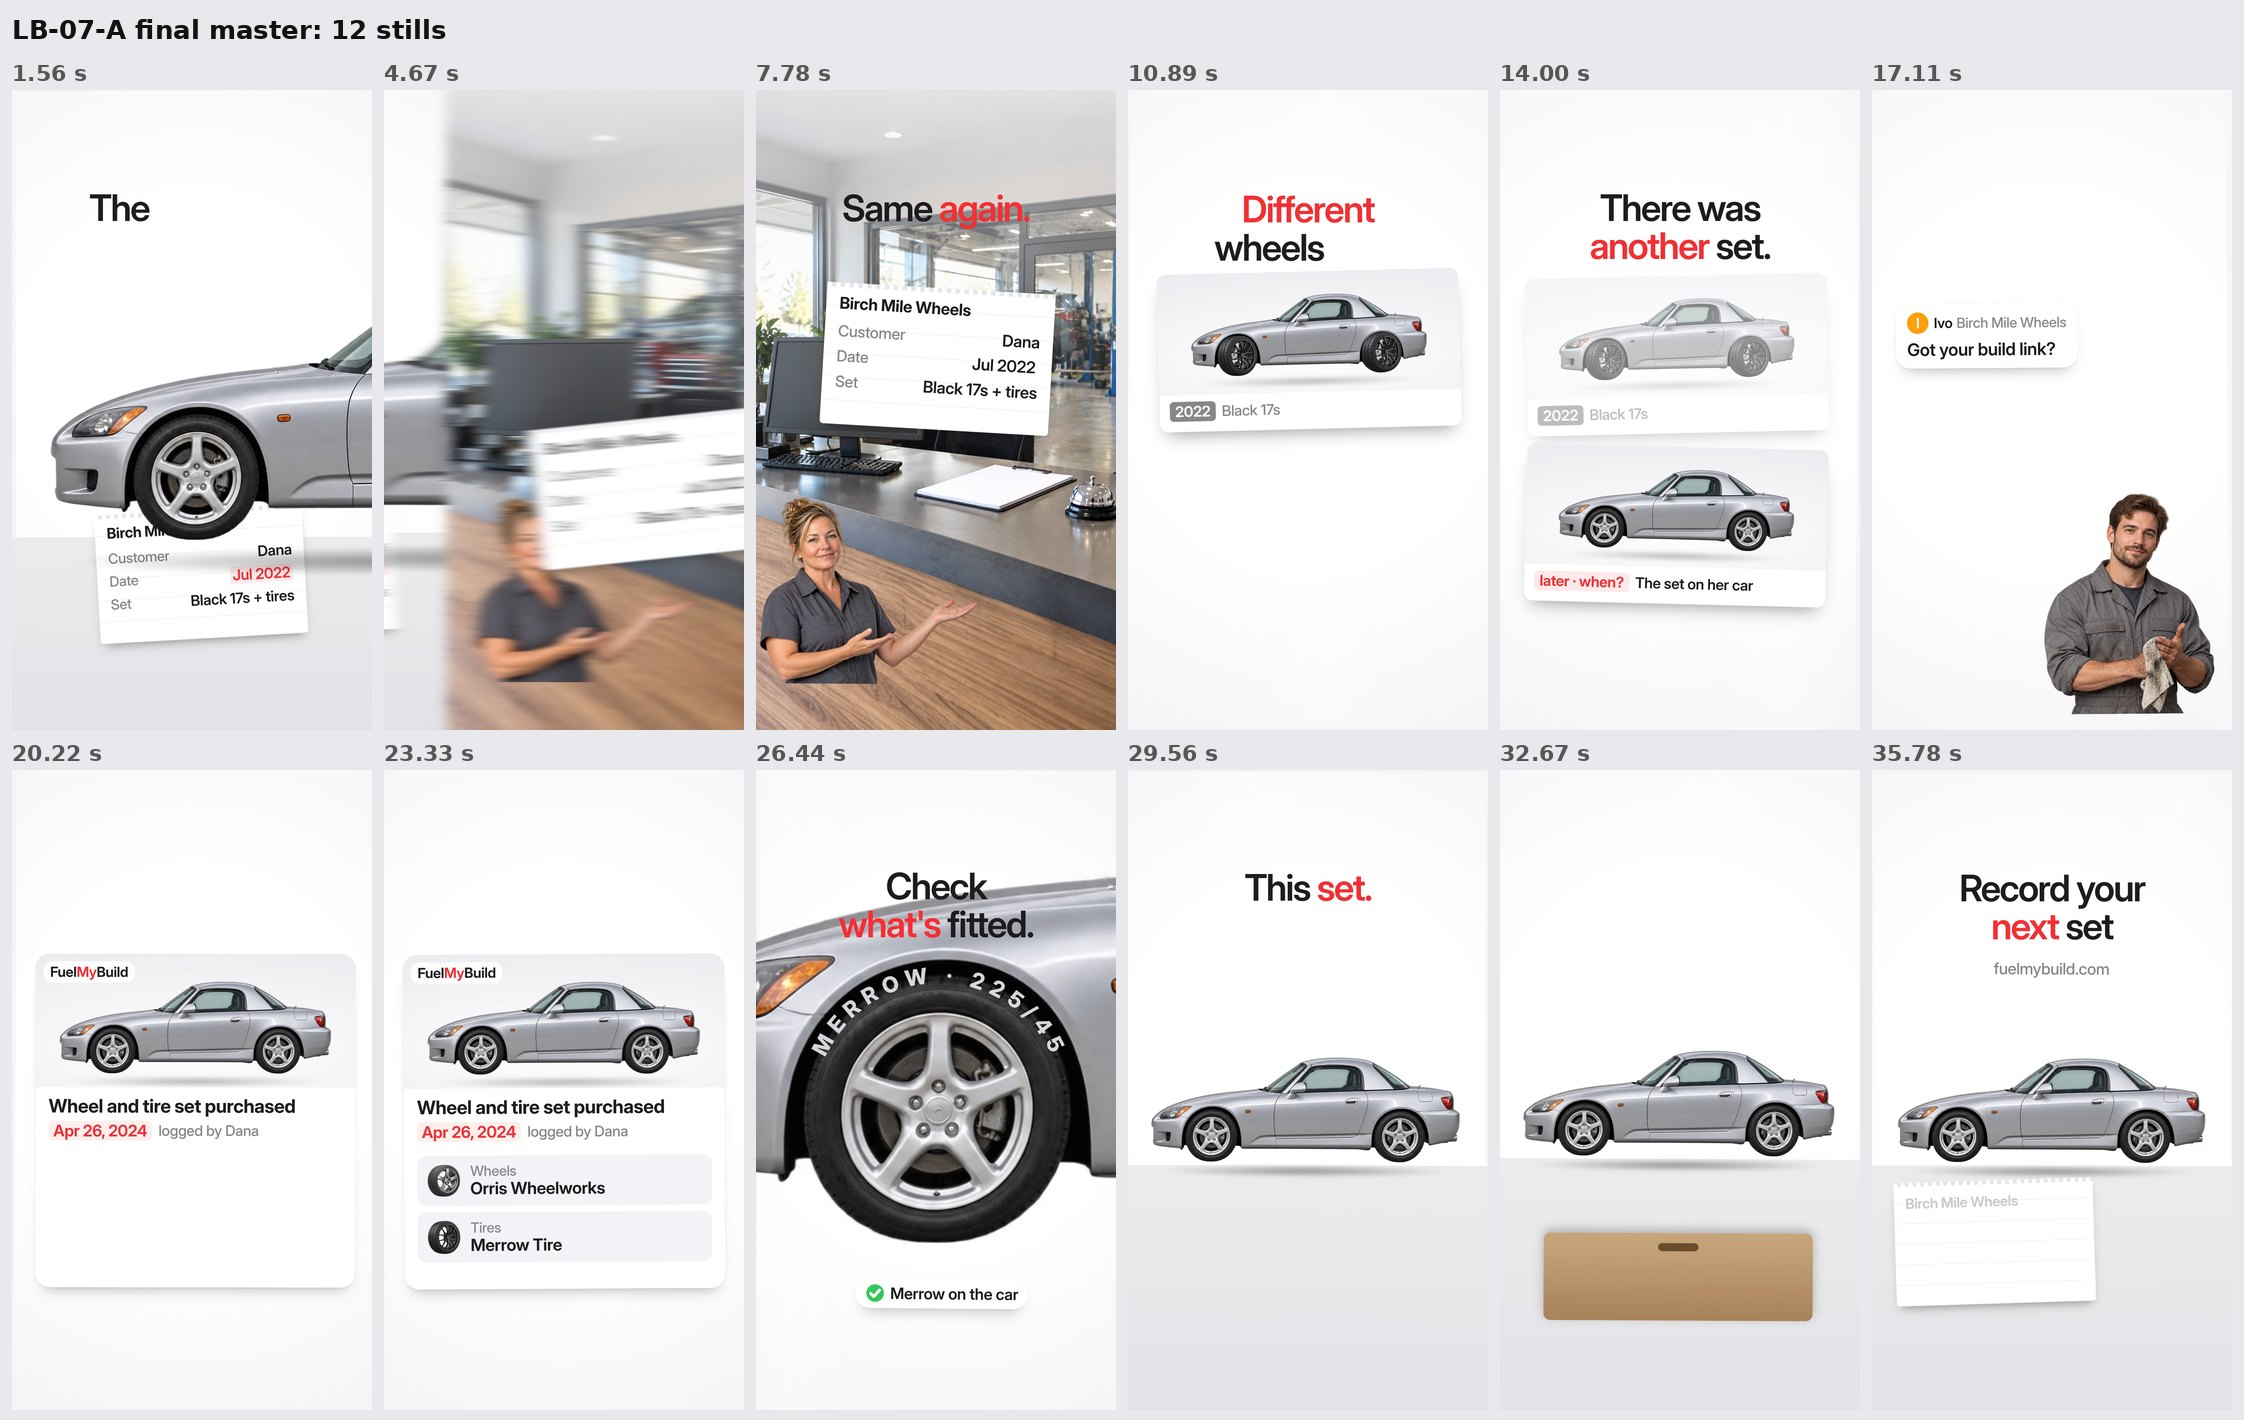
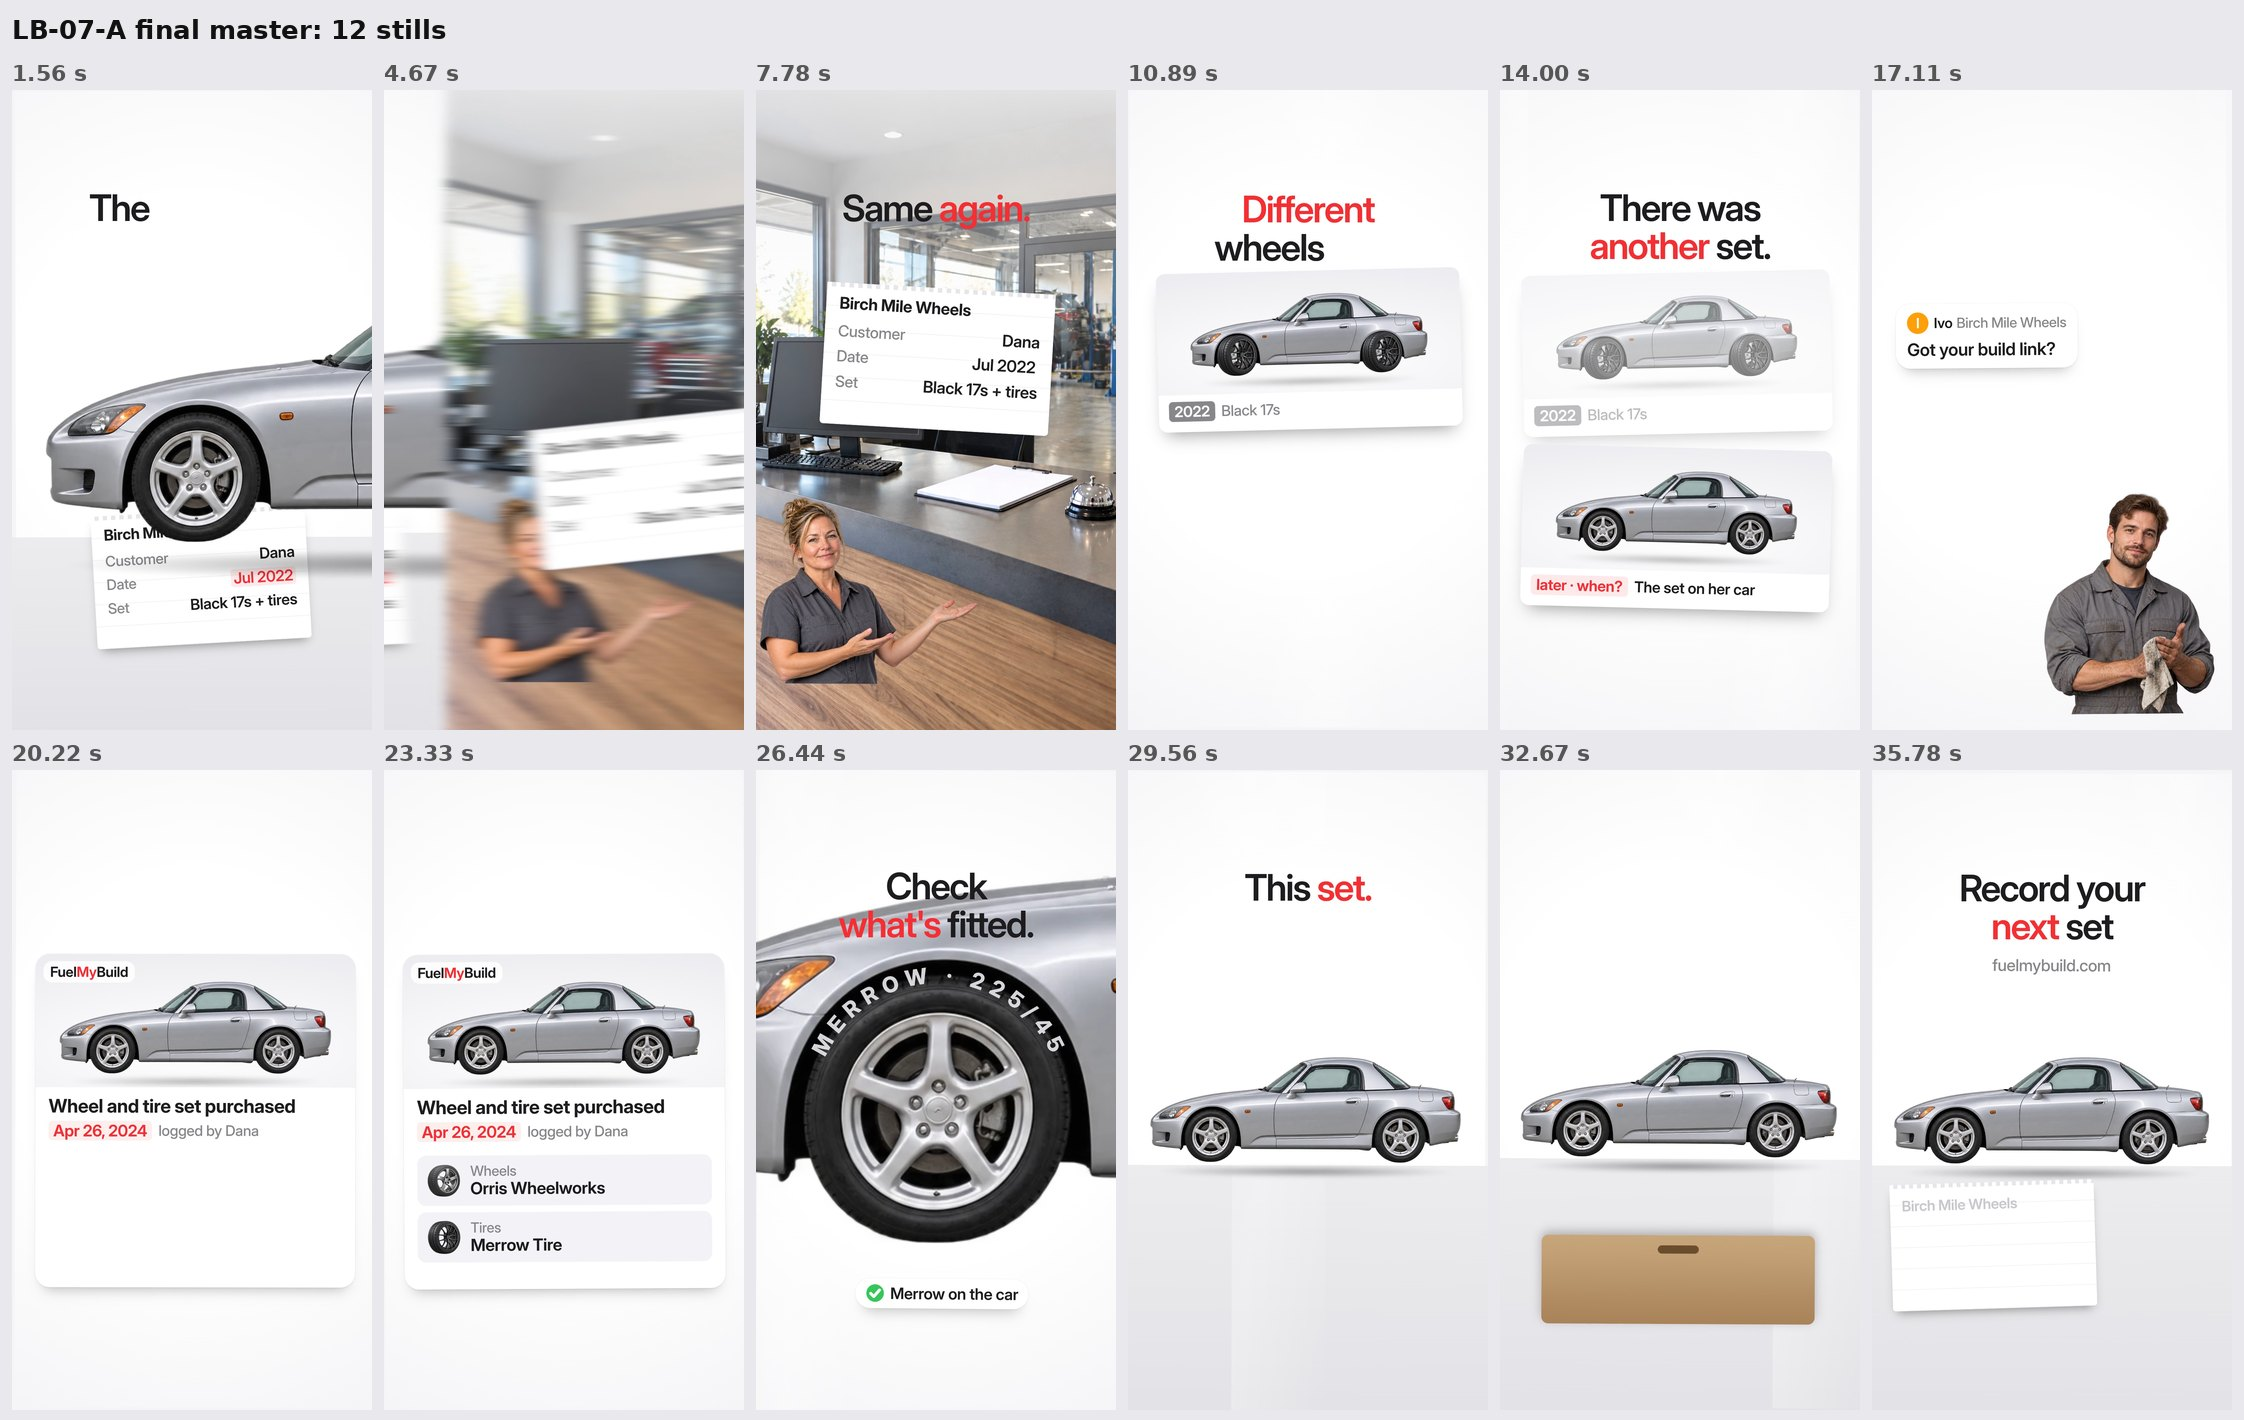
Sprint builds: work-in-progress snapshot
Claude-Session: https://claude.ai/code/session_016g3Ws6RKPFxbXeFgZ5cwJK

diff --git a/weeks/2026-W44/sprint/film/src/reels/LB-07.tsx b/weeks/2026-W44/sprint/film/src/reels/LB-07.tsx
@@ -87,7 +87,7 @@ export function build(tl, hook) {
     const out = phase === "hook" ? ez(t, T.tells - 0.3, 0.4, EASE.in) : 0;
     return <AbsoluteFill><Studio t={t}>
       <div style={{ position: "absolute", left: -200, right: -200, top: 1330, height: 600, background: "linear-gradient(180deg, #ECECEF, #E2E2E6)" }} />
-      <div style={{ position: "absolute", inset: 0, transform: dT(d, 0.6) }}>
+      <div style={{ position: "absolute", inset: 0, transform: `${dT(d, 0.6)} scale(${1 + 0.04 * t})`, transformOrigin: "540px 1150px" }}>
         <Slip t={t} x={lerp(-700, 240, clamp(slipIn))} y={1250} w={620} rot={-3} blank={cta} z={4} o={1 - out} />
         <Coupe x={CX} y={CY} w={CW} z={6} />
       </div>
@@ -117,7 +117,7 @@ export function build(tl, hook) {
         <Coupe x={70} y={40} w={760} old={old} spin={-roll * 360 * (old ? 1 : 0)} shadow={0.3} /></div>
       <div style={{ position: "absolute", left: 30, top: 380, display: "flex", alignItems: "center", gap: 18 }}>{label}</div>
     </div>;
-    return <AbsoluteFill><Studio t={t}><div style={{ position: "absolute", inset: 0, transform: dT(d, 0.6) }}>
+    return <AbsoluteFill><Studio t={t}><Sweep t={t} w={1080} o={0.45} speed={300} /><div style={{ position: "absolute", inset: 0, transform: `${dT(d, 0.6)} scale(${1 + 0.02 * Math.max(0, t - T.but)})` }}>
       <Print y={560} old={1} q={p1} rot={-1.5} dim={roll} label={<><span style={{ ...inter(44, "#fff", 650), background: GREY, padding: "4px 16px", borderRadius: 12 }}>2022</span><span style={inter(44, GREY, 500)}>Black 17s</span></>} />
       {t > T.shed - 0.2 && <Print y={1070} old={0} q={p2} rot={1.2} dim={0} label={<><span style={{ ...inter(44, RED, 650), background: rgba(RED, 0.1), padding: "4px 16px", borderRadius: 12 }}>later · when?</span><span style={inter(44, INK, 600)}>The set on her car</span></>} />}
     </div></Studio></AbsoluteFill>;
@@ -185,7 +185,8 @@ export function build(tl, hook) {
     const fresh = spr(t - (T.cta + 0.4), 150, 18);
     return <AbsoluteFill><Studio t={t}>
       <div style={{ position: "absolute", left: -200, right: -200, top: 1180, height: 800, background: "linear-gradient(180deg, #ECECEF, #E2E2E6)" }} />
-      <div style={{ position: "absolute", inset: 0, transform: dT(d, 0.6) }}>
+      <Sweep t={t} w={1080} o={0.5} speed={320} />
+      <div style={{ position: "absolute", inset: 0, transform: `${dT(d, 0.6)} scale(${1 + 0.014 * Math.max(0, t - T.now)})`, transformOrigin: "540px 1000px" }}>
         <Coupe x={40} y={820} w={1000} />
         {/* the drawer: opens under the frame, the old slip drops in, it closes */}
         {t > T.old - 0.3 && t < T.drawer + 0.6 && <>

diff --git a/weeks/2026-W44/sprint/film/src/reels/SC-01.tsx b/weeks/2026-W44/sprint/film/src/reels/SC-01.tsx
@@ -115,7 +115,8 @@ export function build(tl, hook) {
     const dim = ez(t, T.i - 0.2, 0.8, EASE.io);
     const card = spr(t - (T.hope - 0.3), 170, 17);
     return <AbsoluteFill style={{ background: "linear-gradient(180deg, #2A2520, #15120F)" }}>
-      <div style={{ position: "absolute", inset: 0, transform: dT(d, 0.6), filter: `brightness(${1 - 0.35 * dim})` }}>
+      <div style={{ position: "absolute", top: 0, bottom: 0, width: 420, left: ((t * 220) % 1900) - 600, background: "linear-gradient(100deg, rgba(255,235,200,0), rgba(255,235,200,.28), rgba(255,235,200,0))", zIndex: 30, pointerEvents: "none" }} />
+      <div style={{ position: "absolute", inset: 0, transform: `${dT(d, 0.6)} scale(${1 + 0.03 * Math.max(0, t - T.but)})`, transformOrigin: "540px 1100px", filter: `brightness(${1 - 0.35 * dim})` }}>
         <div style={{ position: "absolute", left: 0, right: 0, top: 1100, height: 820, background: "linear-gradient(180deg, #7A5A3A, #4E3722)" }} />
         <Cut id="D06" cx={720} cy={1060} w={560} rot={6} shadow={0.4} />
         {/* blank score sheet lines on the clipboard */}
@@ -142,7 +143,7 @@ export function build(tl, hook) {
     const ctaP = phase === "end" ? EASE.camera(seg(t, T.cta - 0.3, T.cta + 0.7)) : 0;
     const card = newCard ? <div style={{ opacity: phase === "night" ? seg(t, T.happened + 0.1, T.happened + 0.4) : 1 }}><TentCard t={t} lines={phase === "night" ? NEW.slice(0, 1).concat([["", 78, RED], ["", 44, GREY]]) : NEW} write={phase === "night" ? [[T.happened + 0.3, T.did + 0.2], [99, 99], [99, 99]] : null} y={1120} w={640} /></div>
       : <TentCard t={t} lines={OLD} />;
-    return <AbsoluteFill style={{ transform: `scale(${1 - 0.04 * ctaP})` }}>
+    return <AbsoluteFill style={{ transform: `scale(${(1 - 0.04 * ctaP) * (phase === "end" ? 1 + 0.004 * Math.max(0, t - T.newc) : 1)})` }}>
       <Windshield t={t} dim={dim} refl={refl} card={card}>
         <div style={{ position: "absolute", left: 120, top: 360, width: 840, opacity: 0.88 * refl, filter: `blur(${(1 - refl) * 14}px)`, transform: `skewY(-2deg) scale(${0.96 + 0.04 * refl})`, zIndex: 8 }}>
           <div style={{ padding: "30px 36px", borderRadius: 34, background: "rgba(255,255,255,.12)", boxShadow: "inset 0 0 0 2px rgba(255,255,255,.18)", backdropFilter: "blur(2px)" }}>
